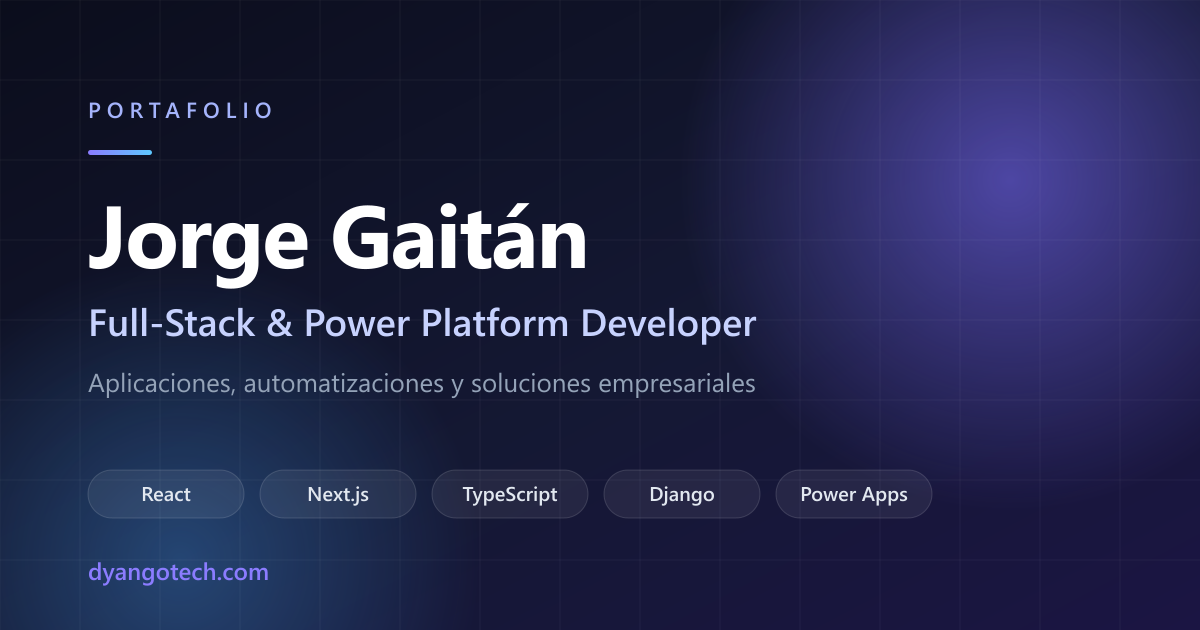
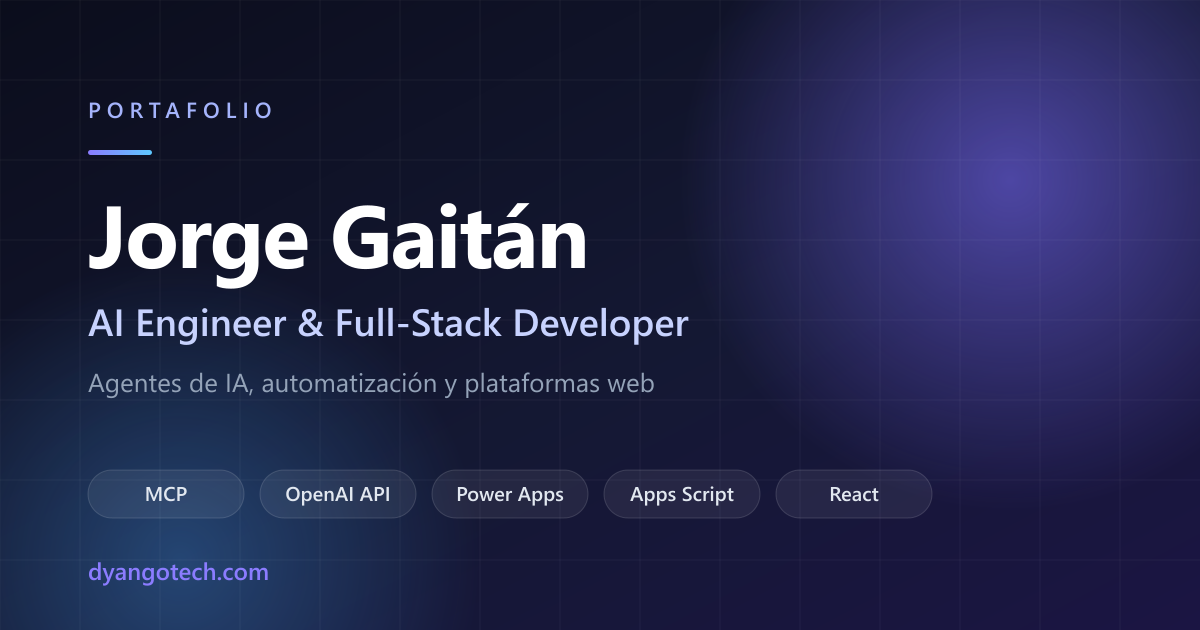
Reposition portfolio around AI engineering, automation and full-stack
Rewrite the profile text around three fronts (automation, AI agents,
full-stack), shorten the hero to one role plus four focus tags, regroup
skills into AI & Agents / Automation & Low-code and add Google Workspace,
RPA, MCP, Django and Next.js. Reorder services to lead with AI agents and
add a Google Workspace service. Align site title, meta description,
keywords, bio and the OG image with the new positioning.

diff --git a/src/data/services.ts b/src/data/services.ts
@@ -11,66 +11,40 @@ export interface Service {
 
 export const servicesData: Service[] = [
   {
-    id: "service-web-modern",
+    id: "service-ai",
     title: {
-      es: "Desarrollo de aplicaciones web modernas",
-      en: "Modern web application development",
+      es: "Agentes de IA e integraciones",
+      en: "AI agents and integrations",
     },
     shortDescription: {
-      es: "Interfaces rápidas, limpias y escalables para productos digitales actuales.",
-      en: "Fast, clean, and scalable interfaces for modern digital products.",
+      es: "Agentes que no solo conversan: consultan datos y ejecutan tareas en las herramientas que ya usa tu negocio.",
+      en: "Agents that do more than chat: they query data and carry out tasks in the tools your business already uses.",
     },
-    icon: "code-icon",
+    icon: "ai-icon",
     features: [
       {
-        es: "Frontend moderno con React",
-        en: "Modern frontend with React",
+        es: "Agentes conectados vía MCP y APIs",
+        en: "Agents connected through MCP and APIs",
       },
       {
-        es: "Experiencias responsivas",
-        en: "Responsive experiences",
+        es: "Asistentes con OpenAI API",
+        en: "Assistants built on the OpenAI API",
       },
       {
-        es: "Arquitectura escalable",
-        en: "Scalable architecture",
-      },
-    ],
-  },
-  {
-    id: "service-enterprise",
-    title: {
-      es: "Desarrollo de soluciones empresariales",
-      en: "Enterprise solution development",
-    },
-    shortDescription: {
-      es: "Productos orientados a resolver necesidades reales de operación y negocio.",
-      en: "Products focused on solving real operational and business needs.",
-    },
-    icon: "server-icon",
-    features: [
-      {
-        es: "Flujos operativos digitales",
-        en: "Digital operational workflows",
-      },
-      {
-        es: "Integración con herramientas de negocio",
-        en: "Business tool integration",
-      },
-      {
-        es: "Escalabilidad organizacional",
-        en: "Organizational scalability",
+        es: "Orquestación de flujos con n8n",
+        en: "Workflow orchestration with n8n",
       },
     ],
   },
   {
     id: "service-automation",
     title: {
-      es: "Automatización de procesos",
-      en: "Process automation",
+      es: "Automatización de procesos y RPA",
+      en: "Process automation and RPA",
     },
     shortDescription: {
-      es: "Automatizaciones que reducen tareas repetitivas y mejoran la productividad.",
-      en: "Automations that reduce repetitive tasks and improve productivity.",
+      es: "Automatizaciones que eliminan tareas repetitivas y conectan sistemas que hoy se operan a mano.",
+      en: "Automations that remove repetitive tasks and connect systems that are still operated by hand.",
     },
     icon: "sparkles-icon",
     features: [
@@ -79,12 +53,12 @@ export const servicesData: Service[] = [
         en: "Power Automate flows",
       },
       {
-        es: "Automatización inteligente",
-        en: "Intelligent automation",
+        es: "RPA con Python",
+        en: "RPA with Python",
       },
       {
-        es: "Optimización de tiempos",
-        en: "Time optimization",
+        es: "Integración entre sistemas",
+        en: "System-to-system integration",
       },
     ],
   },
@@ -115,6 +89,58 @@ export const servicesData: Service[] = [
     ],
   },
   {
+    id: "service-google-workspace",
+    title: {
+      es: "Soluciones con Google Workspace",
+      en: "Google Workspace solutions",
+    },
+    shortDescription: {
+      es: "Automatizaciones y herramientas internas sobre Google Sheets y el resto de Google Workspace.",
+      en: "Automations and internal tools built on Google Sheets and the rest of Google Workspace.",
+    },
+    icon: "workspace-icon",
+    features: [
+      {
+        es: "Automatizaciones con Apps Script",
+        en: "Apps Script automations",
+      },
+      {
+        es: "Google Sheets como base operativa",
+        en: "Google Sheets as an operational backbone",
+      },
+      {
+        es: "Integración con APIs externas",
+        en: "External API integration",
+      },
+    ],
+  },
+  {
+    id: "service-fullstack",
+    title: {
+      es: "Plataformas web full-stack",
+      en: "Full-stack web platforms",
+    },
+    shortDescription: {
+      es: "Aplicaciones web completas, del frontend a la base de datos, pensadas para crecer.",
+      en: "Complete web applications, from frontend to database, built to scale.",
+    },
+    icon: "server-icon",
+    features: [
+      {
+        es: "Frontend con React y Next.js",
+        en: "Frontend with React and Next.js",
+      },
+      {
+        es: "Backend con Django o Node.js y SQL",
+        en: "Backend with Django or Node.js and SQL",
+      },
+      {
+        es: "Integración con herramientas de negocio",
+        en: "Business tool integration",
+      },
+    ],
+  },
+  {
     id: "service-uiux",
     title: {
       es: "Diseño UI/UX",
@@ -137,32 +163,6 @@ export const servicesData: Service[] = [
       {
         es: "Diseño orientado a producto",
         en: "Product-oriented design",
-      },
-    ],
-  },
-  {
-    id: "service-ai",
-    title: {
-      es: "Integración de IA en productos digitales",
-      en: "AI integration into digital products",
-    },
-    shortDescription: {
-      es: "Capacidades de IA generativa integradas con contexto, automatización y valor real.",
-      en: "Generative AI capabilities integrated with context, automation, and real value.",
-    },
-    icon: "ai-icon",
-    features: [
-      {
-        es: "OpenAI API y asistentes",
-        en: "OpenAI API and assistants",
-      },
-      {
-        es: "Agentes y orquestación",
-        en: "Agents and orchestration",
-      },
-      {
-        es: "IA aplicada a negocio",
-        en: "AI applied to business",
       },
     ],
   },

diff --git a/src/data/translations.ts b/src/data/translations.ts
@@ -60,7 +60,7 @@ export const translationsData: Record<Language, Translations> = {
     },
     hero: {
       greeting: "Hola, soy",
-      role: "Ingeniero de Sistemas y Computación | Full-Stack Developer | Generative AI Builder | Power Platform Developer | Agentic Software Engineer",
+      role: "AI Engineer & Full-Stack Developer | Agentes de IA & MCP | Automatización & RPA | Power Platform | Google Workspace",
       description:
         "Construyo soluciones digitales que combinan desarrollo, automatización e inteligencia artificial para resolver problemas reales de negocio. Desde aplicaciones web hasta procesos automatizados, mi enfoque es crear productos eficientes, escalables y centrados en el usuario.",
       ctaPrimary: "Ver proyectos",
@@ -77,9 +77,9 @@ export const translationsData: Record<Language, Translations> = {
     },
     about: {
       content: [
-        "Ingeniero de Sistemas y Computación enfocado en desarrollo de aplicaciones, automatización de procesos y soluciones tecnológicas orientadas al negocio, con especial énfasis en Power Platform e inteligencia artificial.",
-        "Experiencia en el diseño e implementación de soluciones con Power Apps, Power Automate, Dataverse, SQL y Python dentro del ecosistema Microsoft, impulsando la optimización y eficiencia operativa.",
-        "Con formación en desarrollo full-stack (React, Node.js, Django), construyo soluciones end-to-end, escalables y centradas en el usuario, integrando IA generativa y automatización (RPA)."
+        "Ingeniero de Sistemas y Computación que construye soluciones de software, automatización e inteligencia artificial para resolver problemas reales de negocio, desde la idea hasta producción.",
+        "Trabajo en tres frentes que se complementan: automatización de procesos con Microsoft Power Platform, Google Workspace, Python y RPA; ingeniería de IA, integrando modelos de lenguaje y agentes con APIs, bases de datos y herramientas externas para que ejecuten tareas reales, no solo conversen; y desarrollo full-stack de plataformas web con React, TypeScript, Node.js, Django y SQL.",
+        "Esa combinación me permite entender un proceso de negocio, decidir si conviene resolverlo con low-code, con código a medida o con IA, y entregarlo integrado con los sistemas que la empresa ya usa."
       ],
     },
     contact: {
@@ -110,7 +110,7 @@ export const translationsData: Record<Language, Translations> = {
     },
     hero: {
       greeting: "Hi, I'm",
-      role: "Systems and Computer Engineer | Full-Stack Developer | Generative AI Builder | Power Platform Developer | Agentic Software Engineer",
+      role: "AI Engineer & Full-Stack Developer | AI Agents & MCP | Automation & RPA | Power Platform | Google Workspace",
       description:
         "I build digital solutions that combine development, automation, and artificial intelligence to solve real business problems. From web applications to automated processes, my focus is on creating efficient, scalable, and user-centered products.",
       ctaPrimary: "View projects",
@@ -127,9 +127,9 @@ export const translationsData: Record<Language, Translations> = {
     },
     about: {
       content: [
-        "Systems and Computer Engineer focused on application development, process automation, and business-oriented technology solutions, with special emphasis on Power Platform and artificial intelligence.",
-        "Experienced in designing and implementing solutions with Power Apps, Power Automate, Dataverse, SQL, and Python within the Microsoft ecosystem, driving operational optimization and efficiency.",
-        "With training in full-stack development (React, Node.js, Django), I build end-to-end, scalable, and user-centered solutions, integrating generative AI and automation (RPA)."
+        "Systems and Computer Engineer building software, automation, and AI solutions that solve real business problems, from idea to production.",
+        "I work across three complementary fronts: process automation with Microsoft Power Platform, Google Workspace, Python, and RPA; AI engineering, connecting language models and agents to APIs, databases, and external tools so they carry out real tasks, not just chat; and full-stack development of web platforms with React, TypeScript, Node.js, Django, and SQL.",
+        "That mix lets me understand a business process, decide whether it's best solved with low-code, custom code, or AI, and deliver it integrated with the systems the company already uses."
       ],
     },
     contact: {

diff --git a/src/data/skills.ts b/src/data/skills.ts
@@ -1,8 +1,9 @@
 export type SkillCategory =
+  | "AI & Agents"
+  | "Automation & Low-code"
   | "Frontend"
-  | "Backend"
-  | "Database"
-  | "Cloud & Platform"
+  | "Backend & Data"
+  | "Cloud"
   | "Tools";
 export type SkillLevel = "Beginner" | "Intermediate" | "Advanced" | "Expert";
 
@@ -16,38 +17,49 @@ export interface Skill {
 }
 
 export const skillsData: Skill[] = [
+  { id: "s-openai", name: "OpenAI API", category: "AI & Agents" },
+  { id: "s-mcp", name: "MCP", category: "AI & Agents" },
+  { id: "s-n8n", name: "n8n", category: "AI & Agents" },
+  { id: "s-claude-code", name: "Claude Code", category: "AI & Agents" },
+  { id: "s-codex", name: "Codex", category: "AI & Agents" },
+  { id: "s-antigravity", name: "Antigravity", category: "AI & Agents" },
+  { id: "s-notebooklm", name: "NotebookLM", category: "AI & Agents" },
+  { id: "s-stitch", name: "Stitch", category: "AI & Agents" },
+
+  { id: "s-powerplatform", name: "Power Platform", category: "Automation & Low-code" },
+  { id: "s-powerapps", name: "Power Apps", category: "Automation & Low-code" },
+  { id: "s-powerautomate", name: "Power Automate", category: "Automation & Low-code" },
+  { id: "s-powerbi", name: "Power BI", category: "Automation & Low-code" },
+  { id: "s-dataverse", name: "Dataverse", category: "Automation & Low-code" },
+  { id: "s-rpa-python", name: "Python RPA", category: "Automation & Low-code" },
+  { id: "s-apps-script", name: "Google Apps Script", category: "Automation & Low-code" },
+  { id: "s-google-sheets", name: "Google Sheets", category: "Automation & Low-code" },
+  { id: "s-gws", name: "Google Workspace", category: "Automation & Low-code" },
+  { id: "s-m365", name: "Microsoft 365", category: "Automation & Low-code" },
+
   { id: "s-react", name: "React", category: "Frontend" },
   { id: "s-ts", name: "TypeScript", category: "Frontend" },
   { id: "s-js", name: "JavaScript", category: "Frontend" },
+  { id: "s-nextjs", name: "Next.js", category: "Frontend" },
+  { id: "s-tailwind", name: "Tailwind CSS", category: "Frontend" },
   { id: "s-html", name: "HTML", category: "Frontend" },
   { id: "s-css", name: "CSS", category: "Frontend" },
 
-  { id: "s-python", name: "Python", category: "Backend" },
-  { id: "s-node", name: "Node.js", category: "Backend" },
+  { id: "s-python", name: "Python", category: "Backend & Data" },
+  { id: "s-django", name: "Django", category: "Backend & Data" },
+  { id: "s-node", name: "Node.js", category: "Backend & Data" },
+  { id: "s-sql", name: "SQL", category: "Backend & Data" },
+  { id: "s-sqlserver", name: "SQL Server", category: "Backend & Data" },
+  { id: "s-pg", name: "PostgreSQL", category: "Backend & Data" },
 
-  { id: "s-sql", name: "SQL", category: "Database" },
-  { id: "s-sqlserver", name: "SQL Server", category: "Database" },
-  { id: "s-pg", name: "PostgreSQL", category: "Database" },
-
-  { id: "s-azure", name: "Azure", category: "Cloud & Platform" },
-  { id: "s-supabase", name: "Supabase", category: "Cloud & Platform" },
-  { id: "s-dataverse", name: "Dataverse", category: "Cloud & Platform" },
-  { id: "s-powerplatform", name: "Power Platform", category: "Cloud & Platform" },
-  { id: "s-powerapps", name: "Power Apps", category: "Cloud & Platform" },
-  { id: "s-powerautomate", name: "Power Automate", category: "Cloud & Platform" },
-  { id: "s-powerbi", name: "Power BI", category: "Cloud & Platform" },
-  { id: "s-m365", name: "Microsoft 365", category: "Cloud & Platform" },
+  { id: "s-azure", name: "Azure", category: "Cloud" },
+  { id: "s-supabase", name: "Supabase", category: "Cloud" },
+  { id: "s-vercel", name: "Vercel", category: "Cloud" },
+  { id: "s-hostinger", name: "Hostinger", category: "Cloud" },
 
   { id: "s-git", name: "Git", category: "Tools" },
   { id: "s-github", name: "GitHub", category: "Tools" },
   { id: "s-figma", name: "Figma", category: "Tools" },
   { id: "s-vscode", name: "Visual Studio Code", category: "Tools" },
   { id: "s-wordpress", name: "WordPress", category: "Tools" },
-  { id: "s-hostinger", name: "Hostinger", category: "Tools" },
-  { id: "s-n8n", name: "n8n", category: "Tools" },
-  { id: "s-codex", name: "Codex", category: "Tools" },
-  { id: "s-antigravity", name: "Antigravity", category: "Tools" },
-  { id: "s-claude-code", name: "Claude Code", category: "Tools" },
-  { id: "s-stitch", name: "Stitch", category: "Tools" },
-  { id: "s-notebooklm", name: "NotebookLM", category: "Tools" },
 ];

diff --git a/src/app/layout.tsx b/src/app/layout.tsx
@@ -13,9 +13,9 @@ const inter = Inter({
 });
 
 const SITE_URL = "https://dyangotech.com";
-const TITLE = `${profileData.name} — Full-Stack & Power Platform Developer`;
+const TITLE = `${profileData.name} — AI Engineer & Full-Stack Developer`;
 const DESCRIPTION =
-  "Portafolio de Jorge Gaitán, Ingeniero de Sistemas y Computación. Desarrollo full-stack, aplicaciones móviles y soluciones empresariales con Power Platform, React, Next.js y Django.";
+  "Portafolio de Jorge Gaitán, AI Engineer y Full-Stack Developer. Agentes de IA con MCP, automatización de procesos con Power Platform, Google Workspace y RPA, y plataformas web con React, Next.js y Django.";
 
 export const metadata: Metadata = {
   metadataBase: new URL(SITE_URL),
@@ -29,10 +29,15 @@ export const metadata: Metadata = {
   creator: profileData.name,
   keywords: [
     "Jorge Gaitán",
+    "AI Engineer",
+    "agentes de IA",
+    "MCP",
     "desarrollador full-stack",
     "Power Platform Developer",
     "Power Apps",
     "Power Automate",
+    "Google Apps Script",
+    "RPA",
     "React",
     "Next.js",
     "Django",

diff --git a/src/sections/services.tsx b/src/sections/services.tsx
@@ -6,7 +6,7 @@ import { SectionHeading } from "@/components/ui/section-heading";
 import { useLanguage } from "@/components/providers/language-provider";
 import { ScrollReveal } from "@/components/ui/scroll-reveal";
 import { servicesData } from "@/data/services";
-import { Code, Layout, Server, Sparkles, Database, Bot, Zap } from "lucide-react";
+import { Code, Layout, Server, Sparkles, Database, Bot, Zap, Sheet } from "lucide-react";
 
 // The 400-weight tints were chosen against the dark theme and washed out on
 // white. Each accent now has a darker light-mode partner.
@@ -17,6 +17,7 @@ const ICONS: Record<string, { Icon: typeof Code; color: string }> = {
   "database-icon": { Icon: Database, color: "text-orange-600 dark:text-orange-400" },
   "design-pencil-icon": { Icon: Layout, color: "text-pink-600 dark:text-pink-400" },
   "ai-icon": { Icon: Bot, color: "text-indigo-600 dark:text-indigo-400" },
+  "workspace-icon": { Icon: Sheet, color: "text-emerald-600 dark:text-emerald-400" },
 };
 
 const getIcon = (iconName: string) => {

diff --git a/src/data/profile.ts b/src/data/profile.ts
@@ -17,7 +17,7 @@ export interface Profile {
 export const profileData: Profile = {
   name: "Jorge Gaitán",
   role: "Ingeniero de Sistemas y Computación",
-  bio: "Full-Stack y Power Platform Developer enfocado en crear aplicaciones, automatizaciones y soluciones empresariales modernas centradas en el usuario.",
+  bio: "AI Engineer y Full-Stack Developer que construye agentes de IA, automatizaciones y plataformas web para resolver problemas reales de negocio.",
   avatarUrl: "/avatar.png",
   email: "jorgedgaitanr2003@gmail.com",
   location: "Bogotá, Colombia",

diff --git a/src/sections/skills.tsx b/src/sections/skills.tsx
@@ -6,7 +6,14 @@ import { useLanguage } from "@/components/providers/language-provider";
 import { ScrollReveal } from "@/components/ui/scroll-reveal";
 import { skillsData, SkillCategory } from "@/data/skills";
 
-const categories: SkillCategory[] = ["Frontend", "Backend", "Database", "Cloud & Platform", "Tools"];
+const categories: SkillCategory[] = [
+  "AI & Agents",
+  "Automation & Low-code",
+  "Frontend",
+  "Backend & Data",
+  "Cloud",
+  "Tools",
+];
 
 export const SkillsSection = () => {
   const { t } = useLanguage();
